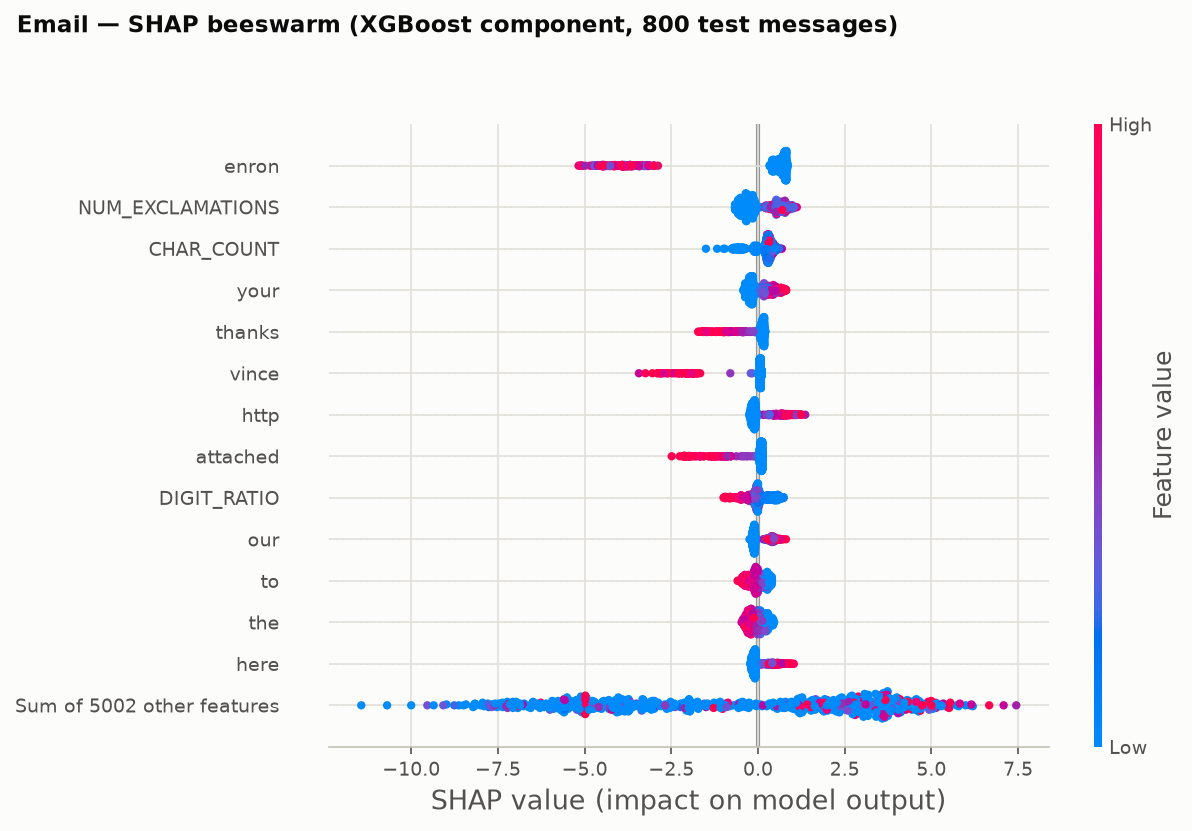
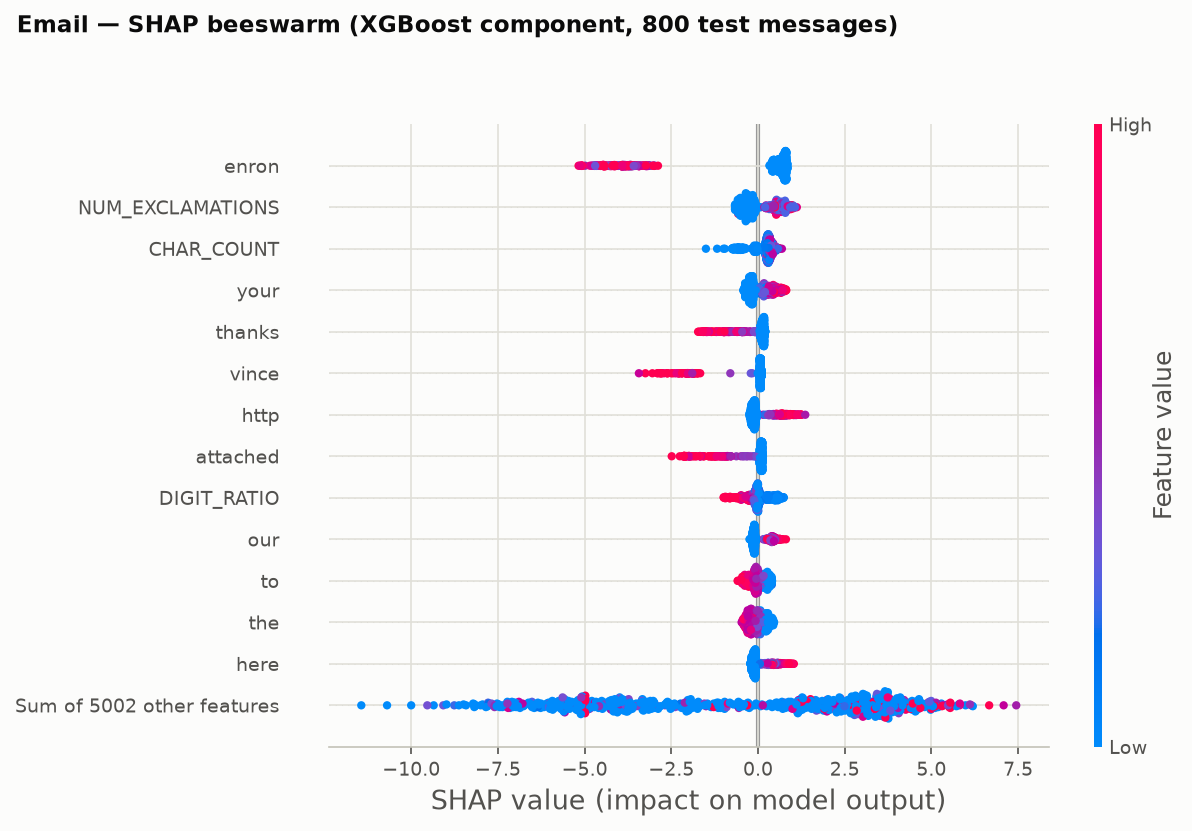
v0.6

diff --git a/paper/main.tex b/paper/main.tex
@@ -129,19 +129,21 @@ largest category (191,561 complaints)~\cite{fbi2026ic3}. Large language models
 cost~\cite{heiding2024devising,yao2024survey}, and scams have followed banking
 and one-time-password traffic onto SMS~\cite{mehmood2024smishing}.
 
-Machine-learning filters intercept most of this traffic, but they are usually
-black boxes: a message is blocked and nobody can say why. High accuracy can
-hide shortcuts, spurious cues that happen to separate the classes in one
-dataset~\cite{du2024shortcut}, and although explainable AI (XAI) now offers a
-broad toolkit~\cite{longo2024xai}, explanations in spam filtering are mostly
-shown as illustrations rather than tested for faithfulness~\cite{lyu2024faithful}
-or used to audit the model. Most detectors also serve a single channel,
-although SMS and e-mail differ sharply (a median of 12 versus 155 words and
-12\% versus 48\% spam in the corpora used here), and comparisons on
-near-saturated benchmarks rarely report uncertainty.
+Most of this traffic is caught by machine-learning filters, yet these filters
+typically operate as black boxes: a message gets blocked, and no one can
+explain the reason. Strong accuracy figures may conceal shortcuts, spurious
+cues that happen to split the classes in a particular
+dataset~\cite{du2024shortcut}. Explainable AI (XAI) now provides a wide range
+of tools~\cite{longo2024xai}, but in spam filtering the explanations are
+usually presented as illustrations; they are rarely checked for
+faithfulness~\cite{lyu2024faithful} or applied to audit the model itself. In
+addition, most detectors handle only one channel, even though SMS and e-mail
+are very different (in the corpora used here, the median length is 12 versus
+155 words and the spam share is 12\% versus 48\%), and comparisons on nearly
+saturated benchmarks seldom report any uncertainty.
 
-We address these gaps with an interpretable multi-modal framework, where
-\emph{modality} denotes the messaging channel (SMS or e-mail). Our
+This paper tackles these gaps with an interpretable multi-modal framework, in
+which \emph{modality} refers to the messaging channel (SMS or e-mail). Our
 contributions are:
 \begin{enumerate}
   \item a CPU-only pipeline with one specialist per channel: readable
@@ -175,35 +177,40 @@ is growing~\cite{mambina2024swahili}, and Salman \emph{et al.} released a new
 dataset and analysed spammers' evasive techniques~\cite{salman2024evasive}.
 
 \emph{E-mail spam and phishing.} The Enron-Spam corpus~\cite{metsis2006spam}
-remains a standard e-mail benchmark. Fine-tuned transformers and LLMs dominate
-recent work~\cite{jamal2024improved,roumeliotis2024next,uddin2026explainable,koide2026chatspamdetector};
-Mel\'{e}ndez \emph{et al.} found transformers ahead of traditional models for
-phishing e-mail, by a small margin~\cite{melendez2024comparative}, and
-meta-learner ensembles remain competitive~\cite{kshirsagar2025metalearner}.
-Hadi \emph{et al.} target both channels with a deep--shallow
-hybrid~\cite{hadi2026hybrid}. LLMs can author effective phishing at
-scale~\cite{heiding2024devising}, and Opara \emph{et al.} showed that such
-messages can bypass major webmail filters but are detectable with stylometric
-features~\cite{opara2025evaluating}.
+remains a standard e-mail benchmark. Recent studies are dominated by
+fine-tuned transformers and
+LLMs~\cite{jamal2024improved,roumeliotis2024next,uddin2026explainable,koide2026chatspamdetector}.
+Mel\'{e}ndez \emph{et al.} reported that transformers beat traditional models
+on phishing e-mail, though only by a small
+margin~\cite{melendez2024comparative}, while ensembles built on meta-learners
+are still competitive~\cite{kshirsagar2025metalearner}. Hadi \emph{et al.}
+cover both channels using a hybrid of deep and shallow
+models~\cite{hadi2026hybrid}. LLMs are capable of producing convincing
+phishing messages at scale~\cite{heiding2024devising}, and Opara \emph{et al.}
+demonstrated that such messages slip past major webmail filters yet can still
+be detected using stylometric features~\cite{opara2025evaluating}.
 
-\emph{Explainability and shortcuts.} LIME fits a local surrogate around one
-prediction~\cite{ribeiro2016lime}; SHAP assigns additive Shapley
-attributions~\cite{lundberg2017shap}, computed exactly for trees by
-TreeSHAP~\cite{lundberg2020treeshap}. Explanations have accompanied smishing
-detectors~\cite{prince2026explainable,jasim2026fuzzy}, guided feature
-selection for spam~\cite{shambour2025quantum}, and been compared on boosting
-models, where SHAP was more stable globally than LIME~\cite{panthi2026shaplime}.
-They are not trustworthy by default: faithfulness must be
-measured~\cite{lyu2024faithful}, explainers often disagree~\cite{krishna2024disagreement},
-and many challenges remain open~\cite{longo2024xai}. Shortcut learning, the
-exploitation of spurious dataset cues, is well documented in
-NLP~\cite{du2024shortcut,dogra2024shortcut}; spam corpora are vulnerable
-because legitimate mail often comes from a single organisation.
+\emph{Explainability and shortcuts.} LIME builds a local surrogate model
+around a single prediction~\cite{ribeiro2016lime}, whereas SHAP provides
+additive Shapley attributions~\cite{lundberg2017shap}, which TreeSHAP computes
+exactly for tree models~\cite{lundberg2020treeshap}. Explanations have been
+attached to smishing detectors~\cite{prince2026explainable,jasim2026fuzzy},
+used to guide feature selection for spam~\cite{shambour2025quantum}, and
+compared across boosting models, where SHAP proved more stable at the global
+level than LIME~\cite{panthi2026shaplime}. Such explanations cannot simply be
+trusted: their faithfulness has to be measured~\cite{lyu2024faithful},
+different explainers frequently disagree~\cite{krishna2024disagreement}, and
+several challenges are still unresolved~\cite{longo2024xai}. Shortcut
+learning, where a model exploits spurious cues in the dataset, is well known
+in NLP~\cite{du2024shortcut,dogra2024shortcut}, and spam corpora are
+especially exposed to it because the legitimate mail often originates from a
+single organisation.
 
-Table~\ref{tab:related} contrasts representative recent studies. Most address
-one channel and use explanations mainly as illustrations. We combine two
-channel specialists with a dual explanation layer, test its faithfulness, use
-it to audit the model, and compare learners with paired significance tests.
+Table~\ref{tab:related} compares representative recent studies. The majority
+deal with one channel only and treat explanations mainly as illustrations. In
+contrast, we pair two channel specialists with a dual explanation layer,
+verify its faithfulness, employ it to audit the model, and compare the
+learners using paired significance tests.
 
 \begin{table*}[!t]
 \caption{Representative Recent Studies Compared With This Work}
@@ -284,10 +291,11 @@ scam signals, and as readable tokens they can appear in an explanation; no
 stemming is applied, so every explained token is a recognisable word. The text
 is vectorised with sublinear TF--IDF over uni- and bi-grams (3,000 terms with
 $\mathrm{df}\ge2$ for SMS, 5,000 with $\mathrm{df}\ge3$ for e-mail). Fifteen
-stylometric statistics computed on the \emph{raw} message
-(Table~\ref{tab:features}) are scaled by their training maximum and appended,
-giving 3,015 and 5,015 dimensions; their upper-case names keep them distinct
-from vocabulary in every explanation.
+stylometric statistics are computed on the \emph{raw} message
+(Table~\ref{tab:features}), divided by their maximum on the training set and
+appended to the vector, yielding 3,015 and 5,015 dimensions; because their
+names are written in upper case, they remain clearly separate from vocabulary
+terms in every explanation.
 
 \begin{table}[!t]
 \caption{Engineered Stylometric Features (Computed on the Raw Message)}
@@ -330,9 +338,9 @@ real, explainable message. The ensemble averages the learners' probabilities,
 \end{equation}
 with $w_m$ proportional to each learner's mean F1 in stratified 5-fold
 cross-validation on the training split, and predicts spam when $p\ge0.5$. The
-weights are 0.3329/0.3331/0.3340 (LR/RF/XGB) for SMS and 0.3356/0.3311/0.3333
-for e-mail, so any benefit comes from diversity rather than from a dominant
-member.
+resulting weights are 0.3329/0.3331/0.3340 (LR/RF/XGB) on SMS and
+0.3356/0.3311/0.3333 on e-mail, so whatever gain the ensemble achieves stems
+from the diversity of its members rather than from any single dominant one.
 
 \subsection{Channel Router}
 
@@ -355,8 +363,9 @@ critical: XGBoost treats entries absent from a sparse matrix as
 \emph{missing}, whereas a densified copy turns them into zeros that follow
 different branches. Densifying the input before explaining therefore explains
 a different function: it changes the XGBoost verdict for 729 of 1,032 SMS and
-1,182 of 2,400 e-mail test messages. All attributions here use XGBoost's
-native TreeSHAP on the sparse matrix the model actually scores.
+1,182 of 2,400 e-mail test messages. Every attribution reported here is
+therefore obtained with XGBoost's built-in TreeSHAP, applied to the same
+sparse matrix that the model actually scores.
 
 %==============================================================================
 \section{Experimental Setup}\label{sec:setup}
@@ -608,15 +617,17 @@ which the decision genuinely depends.
 
 \subsection{Explanations as an Audit Tool: A Corpus Shortcut}
 
-The token \tok{enron} occurs in 44.4\% of legitimate training and 42.1\% of
-legitimate test e-mails but in \emph{no} spam: every legitimate message is
-internal Enron correspondence, so the company name is a one-sided proxy for
-ham. Its mean TreeSHAP contribution is $-3.95$ log-odds when present versus
-$+0.66$ when absent; other identity cues such as the first name \emph{vince}
-also rank highly, and none of the ensemble's 35 false positives contains the
-token. Table~\ref{tab:shortcut} quantifies the risk. Deleting the token from
-523 legitimate e-mails flips only 11 verdicts, but \emph{appending} the single
-word to spam flips 409 of 1,151 detections (35.5\%). XGBoost alone is evaded on
+The token \tok{enron} appears in 44.4\% of the legitimate training e-mails and
+42.1\% of the legitimate test e-mails, but never in spam: since all legitimate
+messages are internal Enron correspondence, the company name acts as a
+one-sided proxy for ham. Its average TreeSHAP contribution is $-3.95$ log-odds
+when the token is present and $+0.66$ when it is absent; other identity cues,
+such as the first name \emph{vince}, also rank near the top, and the token
+does not appear in any of the ensemble's 35 false positives.
+Table~\ref{tab:shortcut} puts a number on the risk. Removing the token from
+523 legitimate e-mails changes only 11 verdicts, whereas \emph{adding} this
+one word to spam messages overturns 409 of 1,151 detections (35.5\%).
+XGBoost alone is evaded on
 91.7\% of messages, RF on 25.3\% and LR on 4.5\%, so the heterogeneous ensemble
 is far more robust than its boosted member, yet not immune. The shortcut is
 invisible in Tables~\ref{tab:results} and~\ref{tab:significance}; only the
@@ -666,14 +677,15 @@ prediction can be explained interactively.
 \section{Discussion and Limitations}\label{sec:discussion}
 %==============================================================================
 
-All learners exceed 97\% accuracy, and a regularised linear model on
-well-designed features is as accurate as the ensemble, consistent with the
-finding that representation matters more than classifier complexity for SMS
-spam~\cite{sahin2026revisiting}. The ensemble's value lies in better ranking
-metrics, a precision-first SMS profile, significant gains over both tree
-models on e-mail and, above all, robustness to the shortcut attack. The
-\tok{enron} shortcut is a property of the corpus rather than the pipeline, yet
-a black-box deployment would have shipped it silently. Global explanations are
+Every learner reaches more than 97\% accuracy, and a regularised linear model
+trained on well-designed features matches the ensemble's accuracy, which
+agrees with the observation that, for SMS spam, the representation matters
+more than the complexity of the classifier~\cite{sahin2026revisiting}. What
+the ensemble adds is stronger ranking metrics, a precision-first profile on
+SMS, significant improvements over both tree models on e-mail and, most
+importantly, resistance to the shortcut attack. The \tok{enron} shortcut
+belongs to the corpus rather than to the pipeline, but a black-box deployment
+would have shipped it without anyone noticing. Global explanations are
 therefore an auditing instrument, but they must themselves be
 validated~\cite{lyu2024faithful}: the sparse/dense pitfall yields plausible
 SHAP plots of a function the deployed model never computes. We recommend

diff --git a/report/scripts/make_shap_figures.py b/report/scripts/make_shap_figures.py
@@ -8,6 +8,8 @@ the sparse features and renders, in the style of src/train.py:
 
   figures/sms_shap_beeswarm.png, figures/email_shap_beeswarm.png
       global summaries over the same 800 held-out messages as src/train.py
+  figures/sms_shap_importance.png, figures/email_shap_importance.png
+      the 15 features with the largest mean |SHAP| on those messages
   figures/sms_shap_waterfall.png
       local explanation of the exhibit SMS used in Chapter 4
 
@@ -37,7 +39,7 @@ from sklearn.model_selection import train_test_split
 from src.config import RANDOM_STATE, SHAP_BACKGROUND_SIZE, TEST_SIZE
 from src.data_loader import load_processed
 from src.models import SpamDetector
-from src.plotting import INK, INK_2, SURFACE, apply_style, save_fig
+from src.plotting import INK, INK_2, SURFACE, apply_style, save_fig, style_axes
 
 MODALITY_LABEL = {"sms": "SMS", "email": "Email"}
 EXHIBIT = ("URGENT! You have WON a £2,000 cash prize GUARANTEED. "
@@ -81,6 +83,18 @@ def beeswarm(modality: str, detector: SpamDetector) -> None:
                  x=0.02, ha="left", fontsize=11, fontweight="bold", color=INK)
     fig.tight_layout(rect=(0, 0, 1, 0.94))
     save_fig(fig, FIGURES / f"{modality}_shap_beeswarm.png")
+
+    # global importance (mean |SHAP|), same style as src/train.py
+    imp = np.abs(exp.values).mean(axis=0)
+    order = np.argsort(imp)[-15:]
+    fig, ax = plt.subplots(figsize=(7.6, 5.2))
+    ax.barh(np.arange(len(order)), imp[order], height=0.66, color="#2a78d6",
+            edgecolor=SURFACE, linewidth=2)
+    ax.set_yticks(np.arange(len(order)), [detector.feature_names[i] for i in order])
+    ax.set_xlabel("mean |SHAP value|  (impact on spam log-odds)")
+    ax.set_title(f"{MODALITY_LABEL[modality]} — global feature importance (SHAP)")
+    style_axes(ax, xgrid=True, ygrid=False)
+    save_fig(fig, FIGURES / f"{modality}_shap_importance.png")
 
 
 def waterfall(detector: SpamDetector) -> None:
